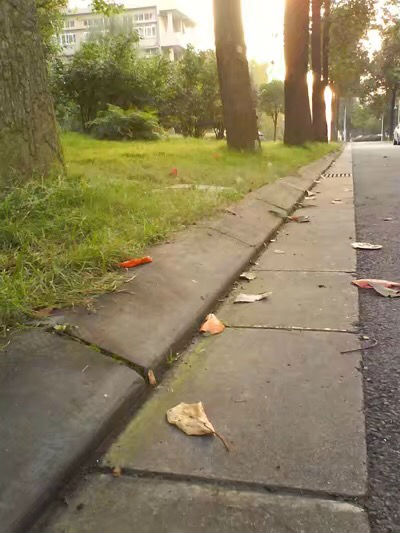
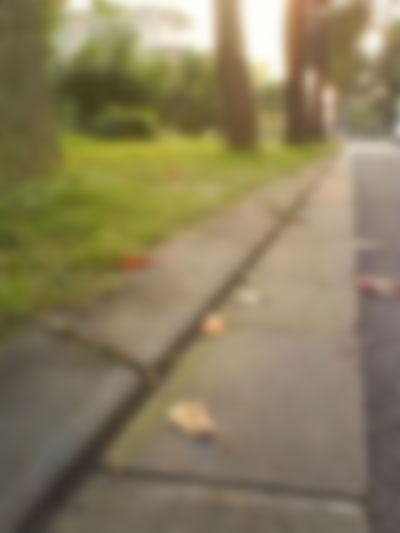
refactor: replace react-native-blur which is using private API may cause App Store rejection with blur image directly

diff --git a/src/components/modal/LoginModal.js b/src/components/modal/LoginModal.js
@@ -10,7 +10,6 @@ import {
   Modal,
   findNodeHandle
 } from 'react-native';
-import { BlurView } from 'react-native-blur';
 import { KeyboardAwareScrollView } from 'react-native-keyboard-aware-scroll-view';
 import Button from 'apsl-react-native-button';
 import styles from '../../styles/components/modal/_LoginModal';
@@ -25,8 +24,7 @@ export default class Login extends Component {
     this.state = {
       userName: '',
       password: '',
-      isRegisterModalOpen: false,
-      viewRef: null
+      isRegisterModalOpen: false
     };
   }
 
@@ -81,10 +79,6 @@ export default class Login extends Component {
     });
   }
 
-  imageLoaded() {
-    this.setState({ viewRef: findNodeHandle(this.backgroundImage) });
-  }
-
   render() {
     let logo = require('../../images/logo_transparent.png');
     let { isFetching } = this.props.user;
@@ -93,21 +87,12 @@ export default class Login extends Component {
 
     return (
       <Modal
-        style={styles.blurContainer}
         animationType='slide'
         transparent={false}
         visible={this.props.visible}>
         <Image
-          ref={(img) => { this.backgroundImage = img; }}
           source={require('../../images/shahe.jpg')}
-          style={styles.blur}
-          onLoadEnd={this.imageLoaded.bind(this)}
-          resizeMode={'cover'} />
-        <BlurView
-          style={styles.blur}
-          viewRef={this.state.viewRef}
-          blurType="light"
-          blurAmount={5} />
+          style={styles.blur} />
         {isRegisterModalOpen &&
           <RegisterModal
             visible={isRegisterModalOpen}

diff --git a/src/containers/Menu.js b/src/containers/Menu.js
@@ -1,7 +1,6 @@
 import React, { Component } from 'react';
 import { connect } from 'react-redux';
 import { View, Image, findNodeHandle } from 'react-native';
-import { BlurView } from 'react-native-blur';
 import styles from '../styles/containers/_Menu';
 import LoginModal from '../components/modal/LoginModal';
 import MenuProfile from '../components/MenuProfile';
@@ -21,8 +20,7 @@ class Menu extends Component {
     super(props);
 
     this.state = {
-      isLoginModalOpen: false,
-      viewRef: null
+      isLoginModalOpen: false
     };
   }
 
@@ -36,10 +34,6 @@ class Menu extends Component {
     });
   }
 
-  imageLoaded() {
-    this.setState({ viewRef: findNodeHandle(this.backgroundImage) });
-  }
-
   render() {
     let { user } = this.props;
     let { isLoginModalOpen } = this.state;
@@ -47,15 +41,8 @@ class Menu extends Component {
     return (
       <View style={styles.container}>
         <Image
-          ref={(img) => { this.backgroundImage = img; }}
           source={require('../images/shahe.jpg')}
-          style={styles.blur}
-          onLoadEnd={this.imageLoaded.bind(this)} />
-        <BlurView
-          style={styles.blur}
-          viewRef={this.state.viewRef}
-          blurType="light"
-          blurAmount={5} />
+          style={styles.blur} />
         {isLoginModalOpen &&
           <LoginModal
             visible={isLoginModalOpen}
